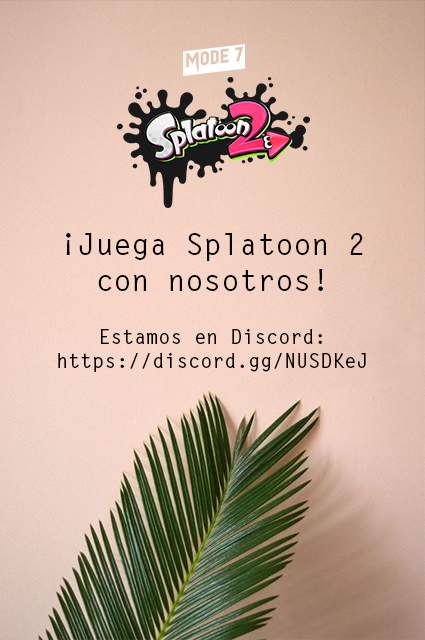
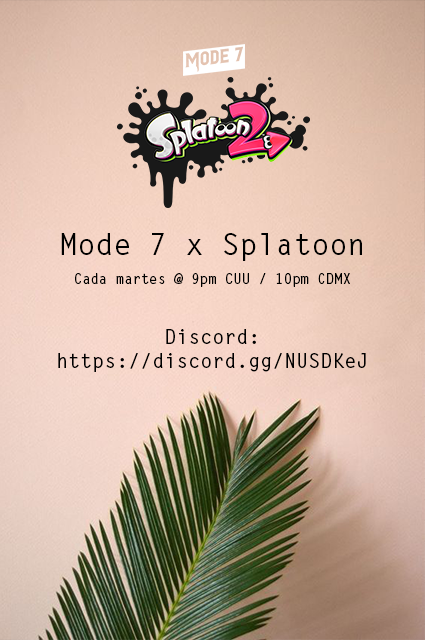
Actualizar Splatoon 2

Changed region(s): [[0.3976, 0.3438, 0.8565, 0.4688], [0.2447, 0.5, 0.7341, 0.5625], [0.1224, 0.3438, 0.3976, 0.4688]]

diff --git a/splatoon.md b/splatoon.md
@@ -1,17 +1,35 @@
 ---
 layout: page
 title: Splatoon 2
-description: Juega Splatoon 2 conmigo y mis amigos que estamos en Mode 7.
+description: Juega Splatoon 2 con la banda que estamos en Mode 7.
 image: /assets/images/banner-splatoon2.png
 permalink: /splatoon/
 ---
 
 <div class="text-center">
-Juega *Splatoon 2* conmigo y mis amigos que estamos en [Mode 7][6].
+Juega *Splatoon 2* con la banda que estamos en [Mode 7][6].
 </div>
 
 <div class="row">
-<div class="col-xs-12 col-sm-6">
+<div class="col-12">
+<div class="card text-center">
+<div class="card-header">
+<h5 class="card-title"><i class="fas fa-poll"></i> Mi combate más reciente <small class="font-italic">(vía <a href="https://stat.ink/@mijo/spl2" target="_blank">stat.ink</a>)</small></h5>
+</div>
+<div class="card-body">
+<h3 class="card-text">
+<span id="splatlog"></span>
+</h3>
+</div>
+<div class="card-footer text-muted">
+<span id="splatlog-timestamp"></span>
+</div>
+</div>
+</div>
+</div>
+
+<div class="row">
+<div class="col-xs-12 col-sm-6 my-auto">
 <div class="card text-center">
 <div class="card-header">
 <h5 class="card-title"><i class="fab fa-nintendo-switch"></i> Nintendo Switch</h5>
@@ -39,27 +57,9 @@ Juega *Splatoon 2* conmigo y mis amigos que estamos en [Mode 7][6].
 </div>
 
 <div class="row">
-<div class="col-12">
-<div class="card text-center">
-<div class="card-header">
-<h5 class="card-title"><i class="fas fa-poll"></i> Mi combate más reciente <small class="font-italic">(vía <a href="https://stat.ink/@mijo/spl2" target="_blank">stat.ink</a>)</small></h5>
-</div>
-<div class="card-body">
-<h3 class="card-text">
-<span id="splatlog"></span>
-</h3>
-</div>
-<div class="card-footer text-muted">
-<span id="splatlog-timestamp"></span>
-</div>
-</div>
-</div>
-</div>
-
-<div class="row">
 <div class="col-sm-6">
 
-## <i class="fas fa-gamepad"></i> Modos de Juego
+## <i class="fas fa-gamepad"></i> Modos de juego
 
 - Turf War (aunque la mayor parte del tiempo juego Ranked)
 - Ranked Battle
@@ -71,8 +71,9 @@ Juega *Splatoon 2* conmigo y mis amigos que estamos en [Mode 7][6].
 
 ## Información
 
-- Puedes unirte a [Mode 7 (#splatoon)][1]{:target="_blank"} en Discord para recibir updates y notificaciones de todas las personas que jugamos
-- Llevo registro y estadísticas personales en [mi perfil de stat.ink][7]{:target="_blank"}
+- Te invito a unirte a [Mode 7 (#splatoon)][1]{:target="_blank"} en Discord para recibir updates y notificaciones de todas las personas que jugamos
+- Jugamos todos los martes por las noches, a las 9:00 pm hora de Chihuahua / 10:00 pm hora de CDMX
+- Llevo un registro de mis batallas y estadísticas personales en [mi perfil de stat.ink][7]{:target="_blank"}
 - Uso la app Nintendo Switch Online ([iOS][2]{:target="itunes_store"} &#124; [Android][3]{:target="_blank"}) para mandar invitaciones a salas de juego
 - Puedes revisar todos mis posts sobre *Splatoon 2* en este hashtag: <a class="badge badge-primary" href="https://blog.{{ site.domain }}/hashtag/splatoon-2/">#Splatoon2</a>
 
@@ -98,11 +99,11 @@ Para recibir mis notificaciones sobre *Splatoon 2* puedes [seguirme en Twitter][
 
 ## <i class="fas fa-microphone"></i> Chat de voz
 
-Para chat de voz utilizo [Discord][1]{:target="_blank"} usando el [canal de voz *Splatoon* dentro de Mode 7][5]{:target="_blank"}.
+Para chat de voz utilizamos [Discord][1]{:target="_blank"} usando el [canal de voz *Splatoon* dentro de Mode 7][5]{:target="_blank"}.
 
 ## <i class="fab fa-discord"></i> Discord
 
-Únete a [Mode 7 (#splatoon)][1]{:target="_blank"}. La intención de este Discord es ser útil para armar partidas, armar cotorreo, conocer gente, jugar en parejas, hablar sobre *Splatoon* y mucho más.
+Únete a [Mode 7 (#splatoon)][1]{:target="_blank"}. La intención de este Discord es ser útil para armar partidas, cotorrear, conocer gente, jugar en parejas, hablar sobre *Splatoon* y mucho más.
 
 [1]: https://discord.gg/NUSDKeJ
 [2]: https://itunes.apple.com/us/app/id1234806557?mt=12&uo=4&at=10l4Fw
